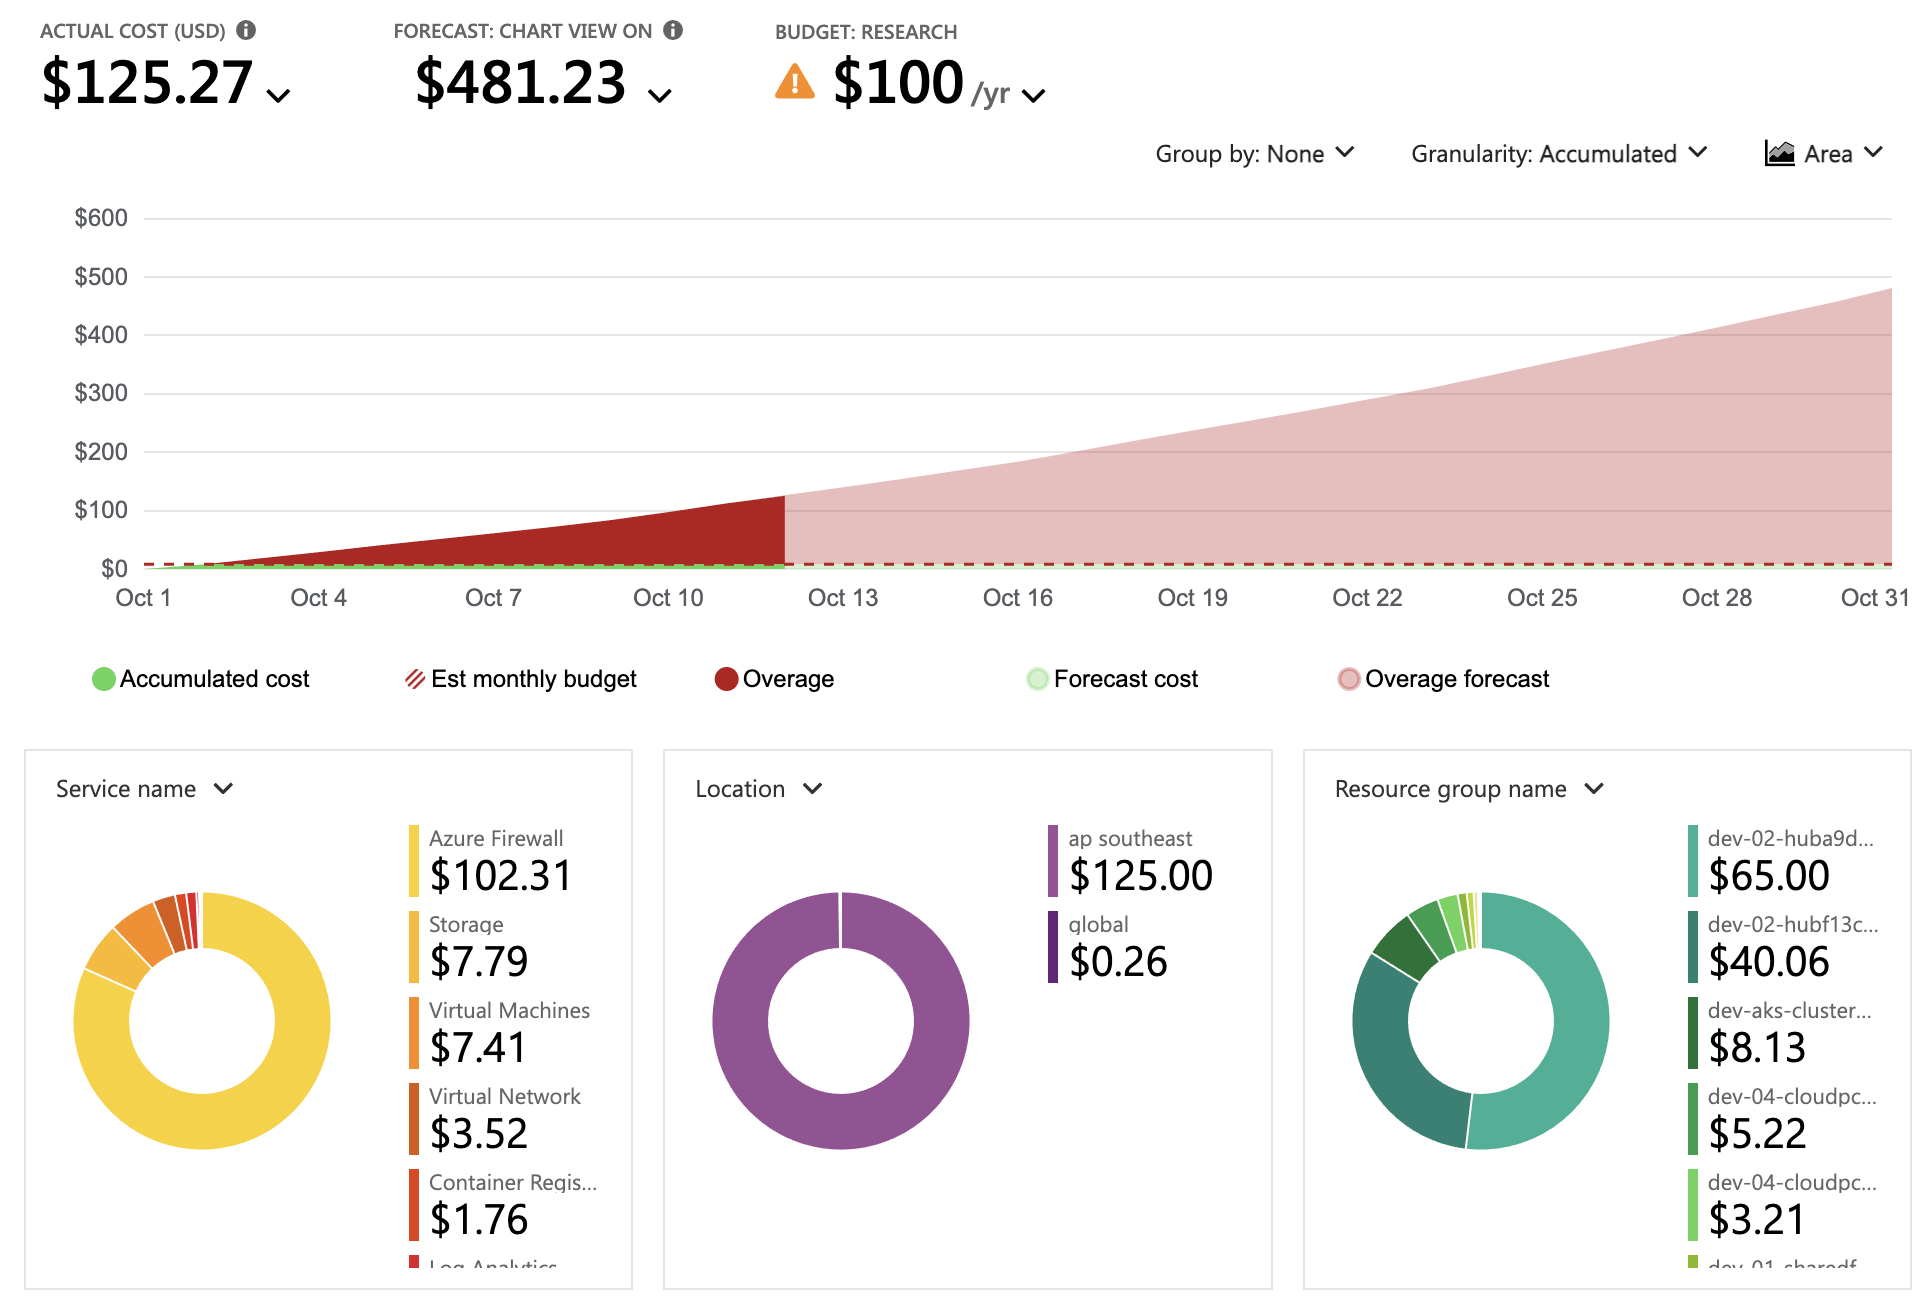
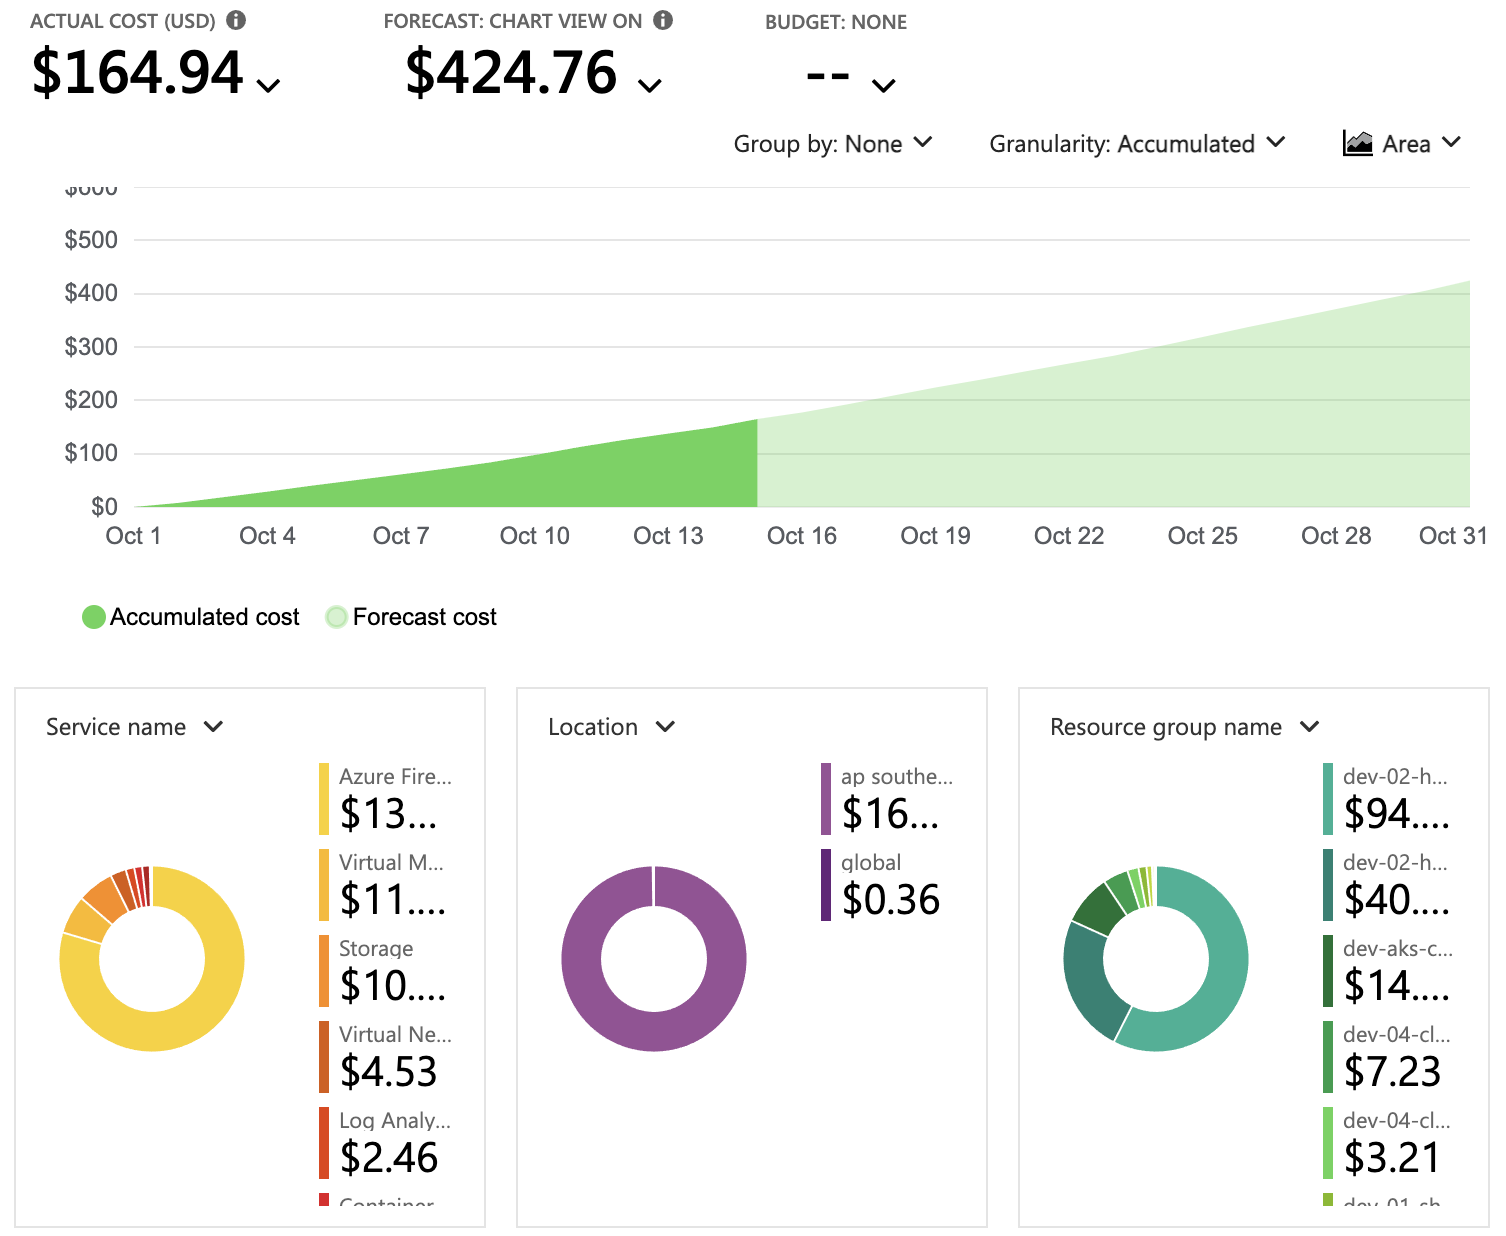
update cost info

diff --git a/src/content/blog/az-00-pulumi-private-aks-environments.md b/src/content/blog/az-00-pulumi-private-aks-environments.md
@@ -128,7 +128,7 @@ Additionally, we delved into the integration of a private CloudPC environment an
 - Throughout this series, we developed a total of six Azure DevOps pipelines, as shown below:
    ![azure-devops-pipelines-overview](/assets/az-00-pulumi-private-aks-environments/azure-devops-pipelines-overview.png)
 
-- In terms of expenses, we incurred approximately $200 in Azure resource costs, detailed in the analytics below:
+- In terms of expenses, we incurred approximately $200 in Azure resource costs, with estimated around 500 USD monthly for the entire environment. Detailed in the analytics below:
     ![az-cost-analytics](/assets/az-00-pulumi-private-aks-environments/az-cost-analytics.png)
 
 ## Future Enhancements
